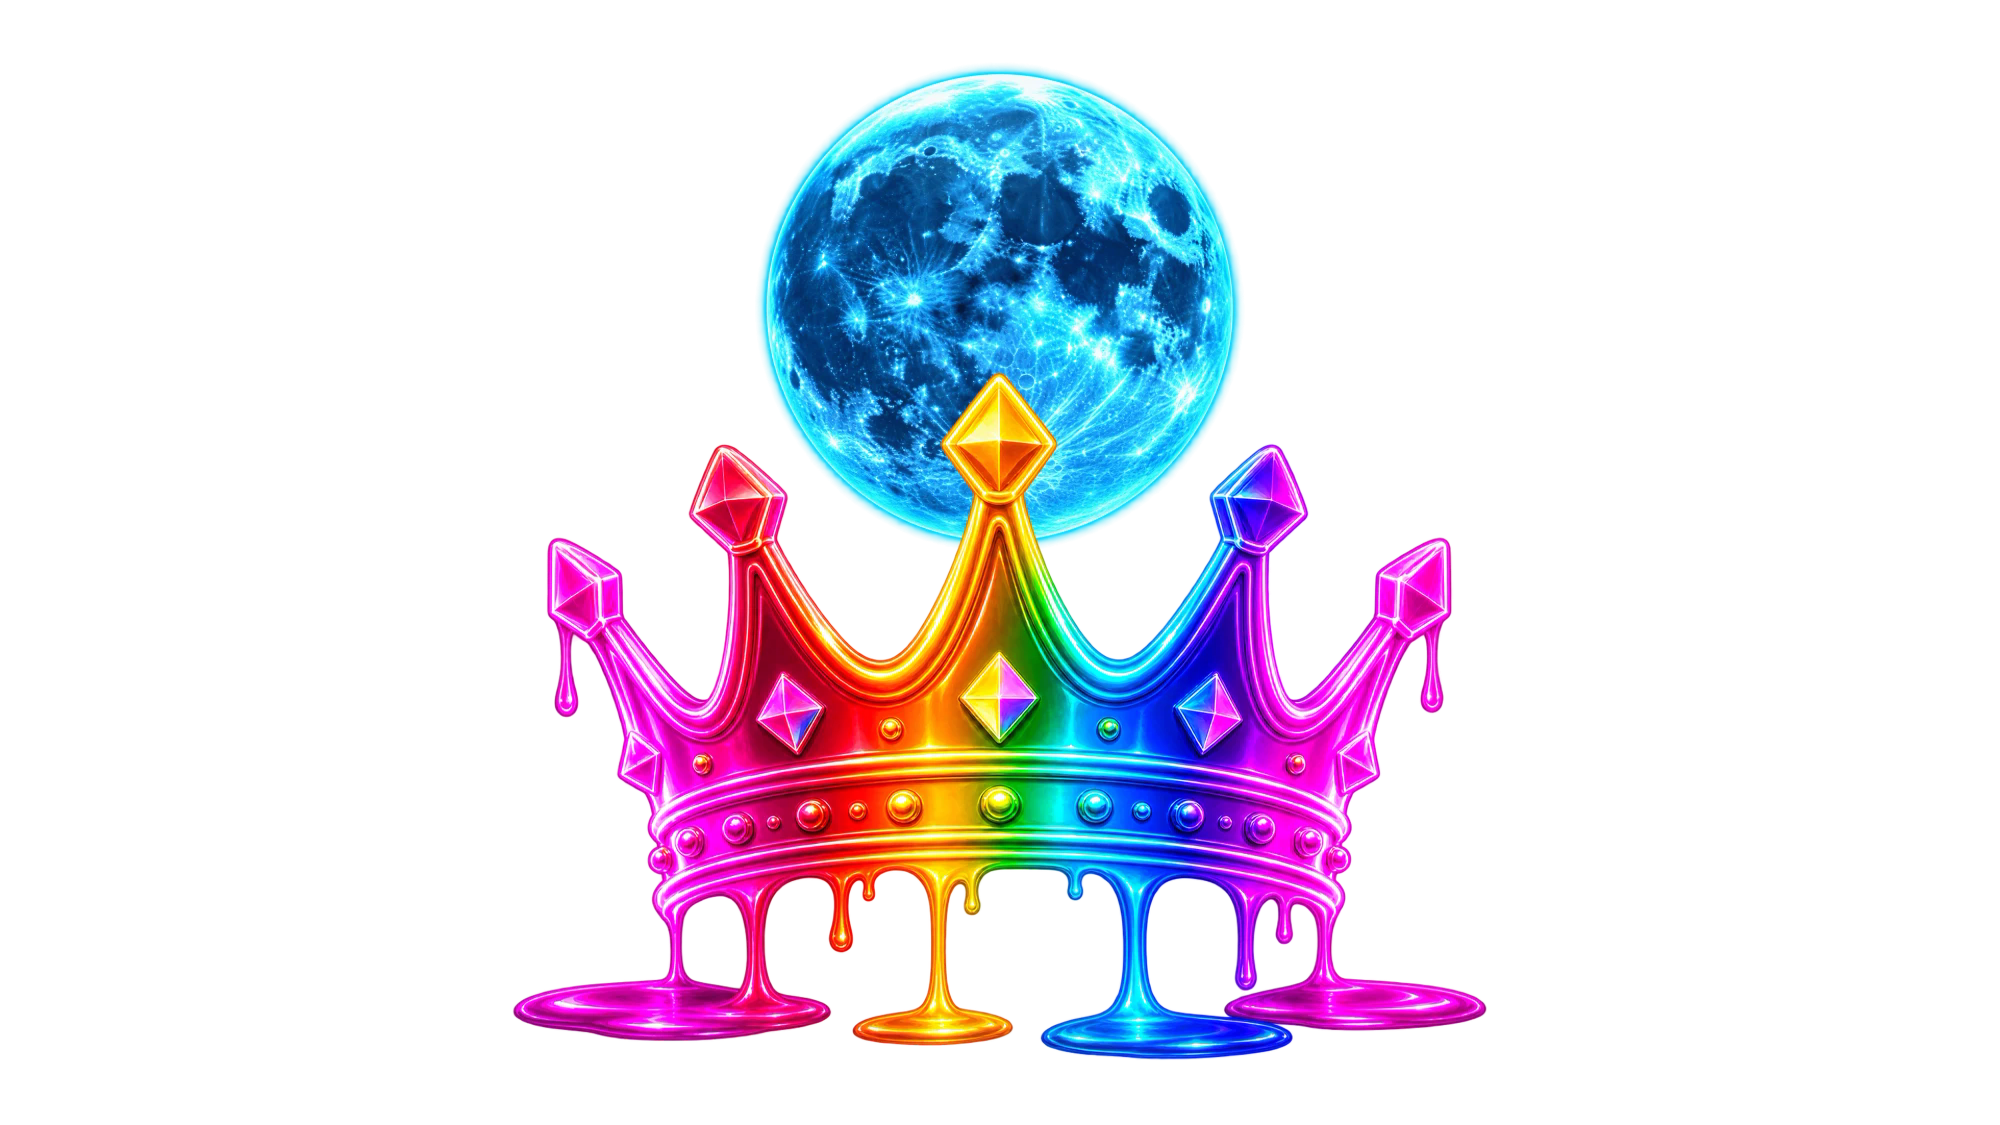
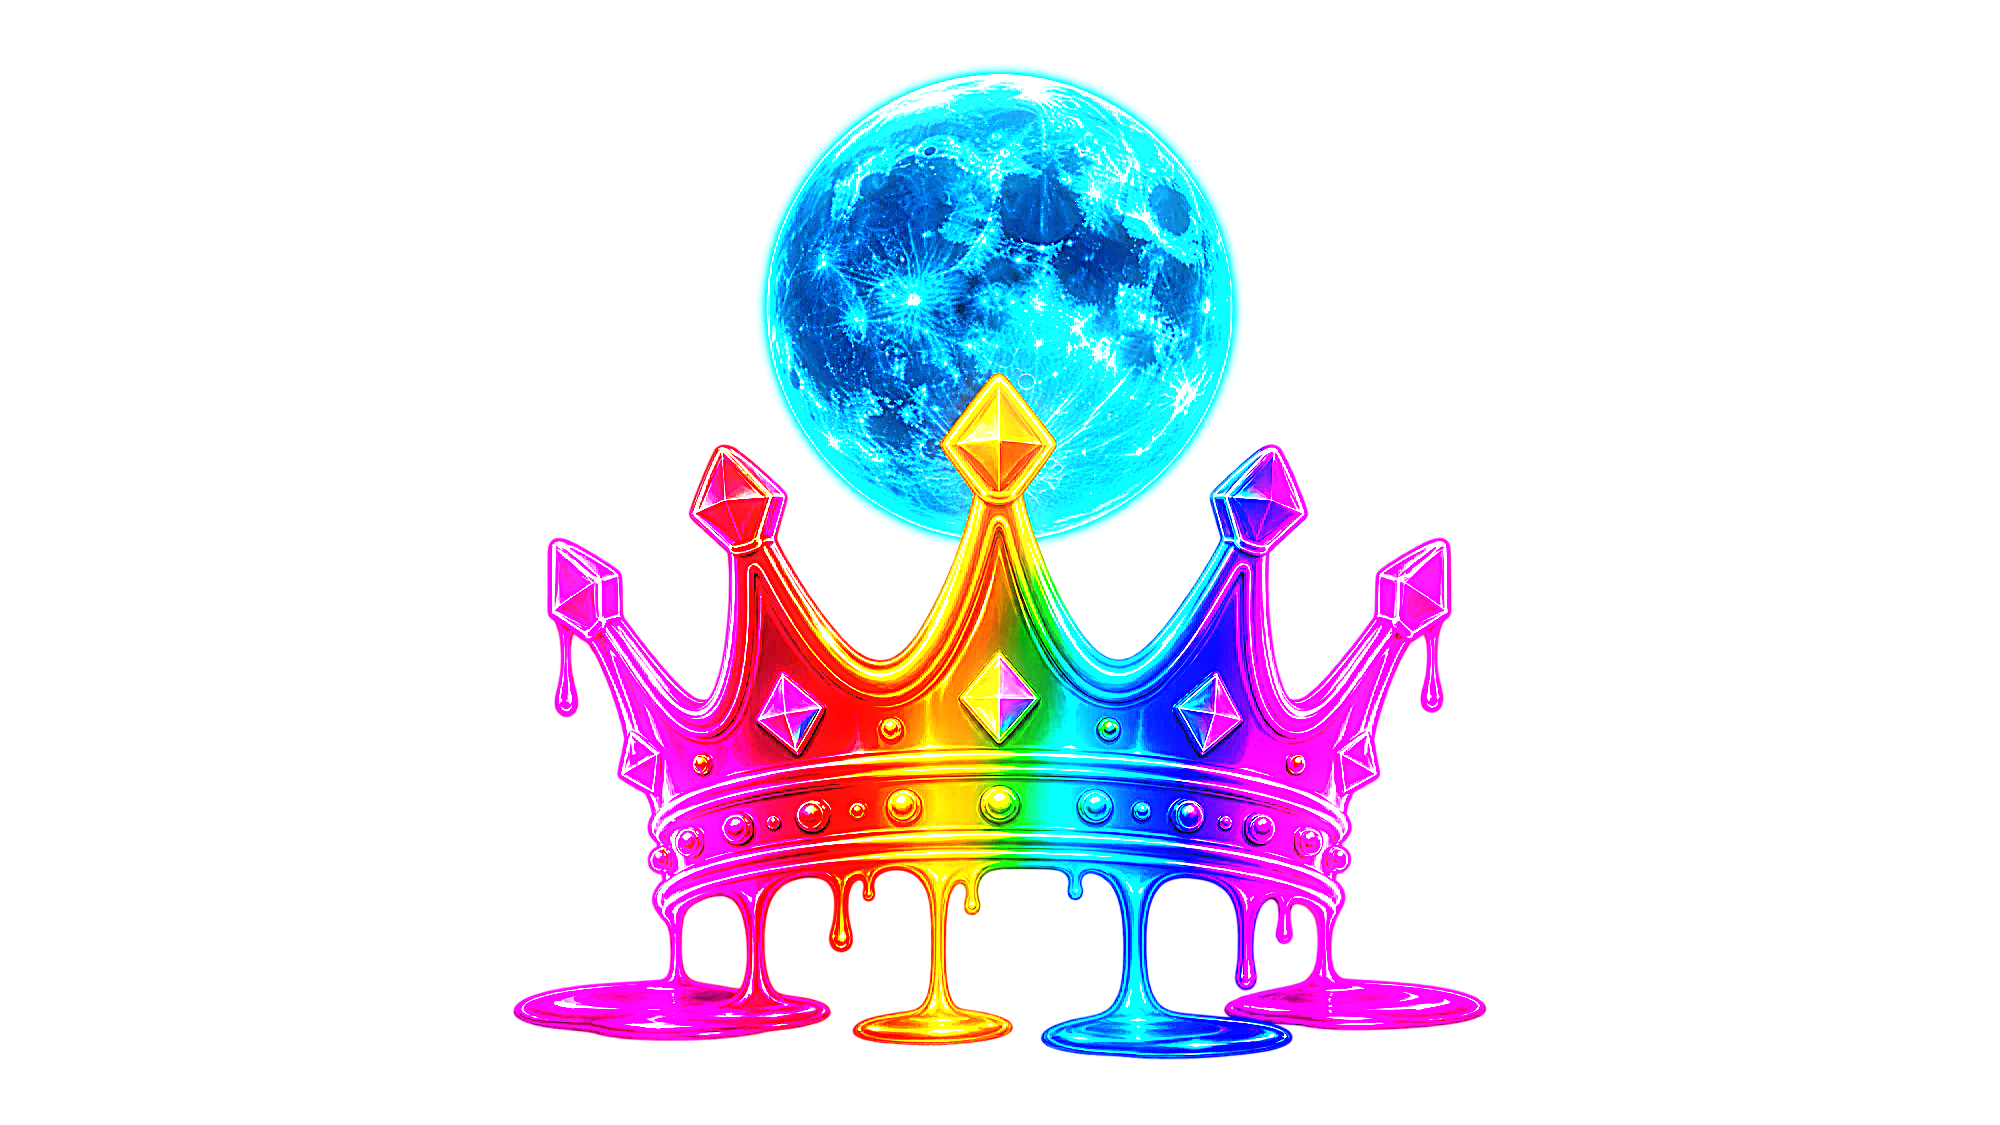
release 2.6.1: real radial glow with additive blending, visible meteors, showroom loading screen
Fixes the decorative animation properly. The glow was three stacked flat
circles, which renders as hard-edged grey discs on a real screen - that
is what showed up on device. It now uses a radial-gradient sprite with
mixBlendMode "screen", so lights blend additively like emitted light
instead of being painted over the sky. RN 0.81.5 on the New
Architecture supports this; the blend sits on a wrapper View because
the tvOS fork's ImageStyle types omit the prop.

Meteors were a 2px hairline that vanished against the starfield: now
460x11 at stage scale, longer travel, brighter heads, five of them on
roughly half the previous intervals.

Loading screen gets a showroom finish across all 480 animated frames
plus the stills: black point crushed so the grey haze becomes true
black, saturation and contrast lifted, a wet clear-coat bloom on the
highlights only, and two sharpening passes for crisp edges. The opaque
backdrop and the alpha overlay get different treatments - crushing an
overlay's blacks would only dim the paint - and the overlay's alpha is
preserved untouched. Backdrop quality is tuned to 78 to keep it near
its original weight rather than tripling this asset's share of the APK.

Changed region(s): [[0.248, 0.0622, 0.744, 0.9644]]

diff --git a/frontend/src/components/LoginScene.tsx b/frontend/src/components/LoginScene.tsx
@@ -10,6 +10,7 @@ import { LinearGradient } from "expo-linear-gradient";
 // frame, instead of merely being positioned to avoid them.
 const background = require("@/assets/login/scene_bg.webp");
 const foreground = require("@/assets/login/scene_foreground.webp");
+const glowSprite = require("@/assets/login/star_glow.png");
 
 // Everything is laid out on the scene's own native resolution, then scaled to cover the screen.
 const STAGE_W = 3840;
@@ -39,8 +40,8 @@ const PULSE_STARS: PulseStar[] = [
 // A couple of extra "distant moons" - static, no animation needed - purely to give
 // the open black area more of a real outer-space feel.
 const PLANETS = [
-  { x: 2993, y: 91, size: 150, color: "rgba(150,180,255,0.55)" },
-  { x: 3230, y: 1793, size: 110, color: "rgba(255,190,230,0.45)" },
+  { x: 2993, y: 91, size: 150, color: "#8FA8E8" },
+  { x: 3230, y: 1793, size: 110, color: "#D99CC2" },
 ];
 
 // A denser scatter of small plain stars across the whole stage (static, not just the
@@ -73,10 +74,11 @@ type Meteor = { x: number; y: number; angle: string; duration: number; delay: nu
 // clear of the sign-in card on the right. Different screen region AND a different
 // timing band, so the two groups never overlap or fire together.
 const METEORS: Meteor[] = [
-  { x: 165, y: 562, angle: "14deg", duration: 7000, delay: 0, tint: "gold" },
-  { x: 1147, y: 50, angle: "20deg", duration: 8200, delay: 4000, tint: "gold" },
-  { x: 54, y: 1310, angle: "-10deg", duration: 6800, delay: 2000, tint: "ice" },
-  { x: 1600, y: 900, angle: "-16deg", duration: 9200, delay: 6000, tint: "ice" },
+  { x: 165, y: 562, angle: "14deg", duration: 4200, delay: 0, tint: "gold" },
+  { x: 1147, y: 50, angle: "20deg", duration: 5000, delay: 1500, tint: "gold" },
+  { x: 54, y: 1310, angle: "-10deg", duration: 4600, delay: 2600, tint: "ice" },
+  { x: 1600, y: 900, angle: "-16deg", duration: 5400, delay: 3800, tint: "ice" },
+  { x: 472, y: 946, angle: "17deg", duration: 4800, delay: 5200, tint: "ice" },
 ];
 
 /** A slow, natural opacity+size breathing loop - used for both the ambient pulsing stars and the crown's jewel. */
@@ -97,18 +99,22 @@ function usePulse(run: boolean, delayMs: number, periodMs: number): Animated.Val
 }
 
 /**
- * A soft point-light glow built from plain layered circles (decreasing size,
- * increasing opacity toward the center) instead of shadowRadius/elevation - those
- * two render very differently (or not at all without extra elevation) on Android, so
- * this is the one glow technique guaranteed to look the same on every device.
+ * A soft point-light glow. Stacked flat circles leave visible hard edges, and
+ * shadowRadius/elevation renders differently (or not at all) on Android - so this
+ * uses a real radial-gradient sprite, tinted, which falls off smoothly and looks
+ * identical on every device.
  */
-function Glow({ size, color, core }: { size: number; color: string; core: string }) {
+function Glow({ size, color }: { size: number; color: string }) {
   return (
-    <>
-      <View style={{ position: "absolute", left: -size, top: -size, width: size * 2, height: size * 2, borderRadius: size, backgroundColor: color, opacity: 0.22 }} />
-      <View style={{ position: "absolute", left: -size * 0.55, top: -size * 0.55, width: size * 1.1, height: size * 1.1, borderRadius: size * 0.55, backgroundColor: color, opacity: 0.5 }} />
-      <View style={{ position: "absolute", left: -size * 0.18, top: -size * 0.18, width: size * 0.36, height: size * 0.36, borderRadius: size * 0.18, backgroundColor: core }} />
-    </>
+    // The blend lives on the wrapper: additive light, so the glow reads as emitted
+    // rather than as a translucent disc painted over the sky. Needs RN >= 0.76 on the
+    // New Architecture, which this app runs.
+    <View
+      pointerEvents="none"
+      style={{ position: "absolute", left: -size, top: -size, width: size * 2, height: size * 2, mixBlendMode: "screen" }}
+    >
+      <Image source={glowSprite} resizeMode="contain" style={{ width: size * 2, height: size * 2, tintColor: color }} />
+    </View>
   );
 }
 
@@ -124,7 +130,7 @@ function PulsingStar({ star, scale, run }: { star: PulseStar; scale: number; run
         transform: [{ scale: value.interpolate({ inputRange: [0, 1], outputRange: [0.7, 1.25] }) }],
       }}
     >
-      <Glow size={size} color="rgba(190,210,255,0.9)" core="#fff" />
+      <Glow size={size} color="#DCEBFF" />
     </Animated.View>
   );
 }
@@ -142,7 +148,7 @@ function JewelPulse({ scale, run }: { scale: number; run: boolean }) {
         transform: [{ scale: value.interpolate({ inputRange: [0, 1], outputRange: [0.85, 1.3] }) }],
       }}
     >
-      <Glow size={size} color="rgba(190,225,255,0.85)" core="#EAF6FF" />
+      <Glow size={size} color="#D6ECFF" />
     </Animated.View>
   );
 }
@@ -151,7 +157,7 @@ function JewelPulse({ scale, run }: { scale: number; run: boolean }) {
 function Planet({ x, y, size, color, scale }: { x: number; y: number; size: number; color: string; scale: number }) {
   return (
     <View pointerEvents="none" style={{ position: "absolute", left: x * scale, top: y * scale, width: 1, height: 1 }}>
-      <Glow size={size * scale} color={color} core={color.replace(/[\d.]+\)$/, "0.9)")} />
+      <Glow size={size * scale} color={color} />
     </View>
   );
 }
@@ -174,13 +180,13 @@ function ShootingMeteor({ meteor, scale, run }: { meteor: Meteor; scale: number;
     animation.start();
     return () => animation.stop();
   }, [meteor.delay, meteor.duration, run, value]);
-  const travel = 840 * scale;
+  const travel = 1150 * scale;
   const tint = METEOR_TINTS[meteor.tint];
   return (
     <Animated.View
       pointerEvents="none"
       style={{
-        position: "absolute", left: meteor.x * scale, top: meteor.y * scale, width: 320 * scale, height: 5 * scale,
+        position: "absolute", left: meteor.x * scale, top: meteor.y * scale, width: 460 * scale, height: 11 * scale,
         transform: [
           { rotate: meteor.angle },
           { translateX: value.interpolate({ inputRange: [0, 0.03, 0.22, 0.34, 1], outputRange: [0, travel * 0.02, travel * 0.7, travel, travel] }) },
@@ -188,9 +194,10 @@ function ShootingMeteor({ meteor, scale, run }: { meteor: Meteor; scale: number;
         opacity: value.interpolate({ inputRange: [0, 0.03, 0.22, 0.34, 1], outputRange: [0, 1, 1, 0, 0] }),
       }}
     >
-      <LinearGradient colors={tint.colors} start={{ x: 0, y: 0 }} end={{ x: 1, y: 0 }} style={StyleSheet.absoluteFill} />
-      <View style={{ position: "absolute", right: 0, top: 2.5 * scale, width: 1, height: 1 }}>
-        <Glow size={26 * scale} color={tint.glow} core={tint.head} />
+      <LinearGradient colors={tint.colors} start={{ x: 0, y: 0 }} end={{ x: 1, y: 0 }}
+        style={[StyleSheet.absoluteFill, { mixBlendMode: "screen", borderRadius: 6 * scale }]} />
+      <View style={{ position: "absolute", right: 0, top: 5.5 * scale, width: 1, height: 1 }}>
+        <Glow size={34 * scale} color={tint.head} />
       </View>
     </Animated.View>
   );
@@ -230,6 +237,7 @@ export function LoginScene({ animate = true, showAngel = true }: { animate?: boo
           <View key={index} pointerEvents="none" style={{
             position: "absolute", left: star.x * scale - star.r * scale, top: star.y * scale - star.r * scale,
             width: star.r * 2 * scale, height: star.r * 2 * scale, borderRadius: star.r * scale, backgroundColor: "#fff",
+            mixBlendMode: "screen",
           }} />
         )) : null}
         {sceneVisible ? PLANETS.map((planet, index) => <Planet key={index} x={planet.x} y={planet.y} size={planet.size} color={planet.color} scale={scale} />) : null}
